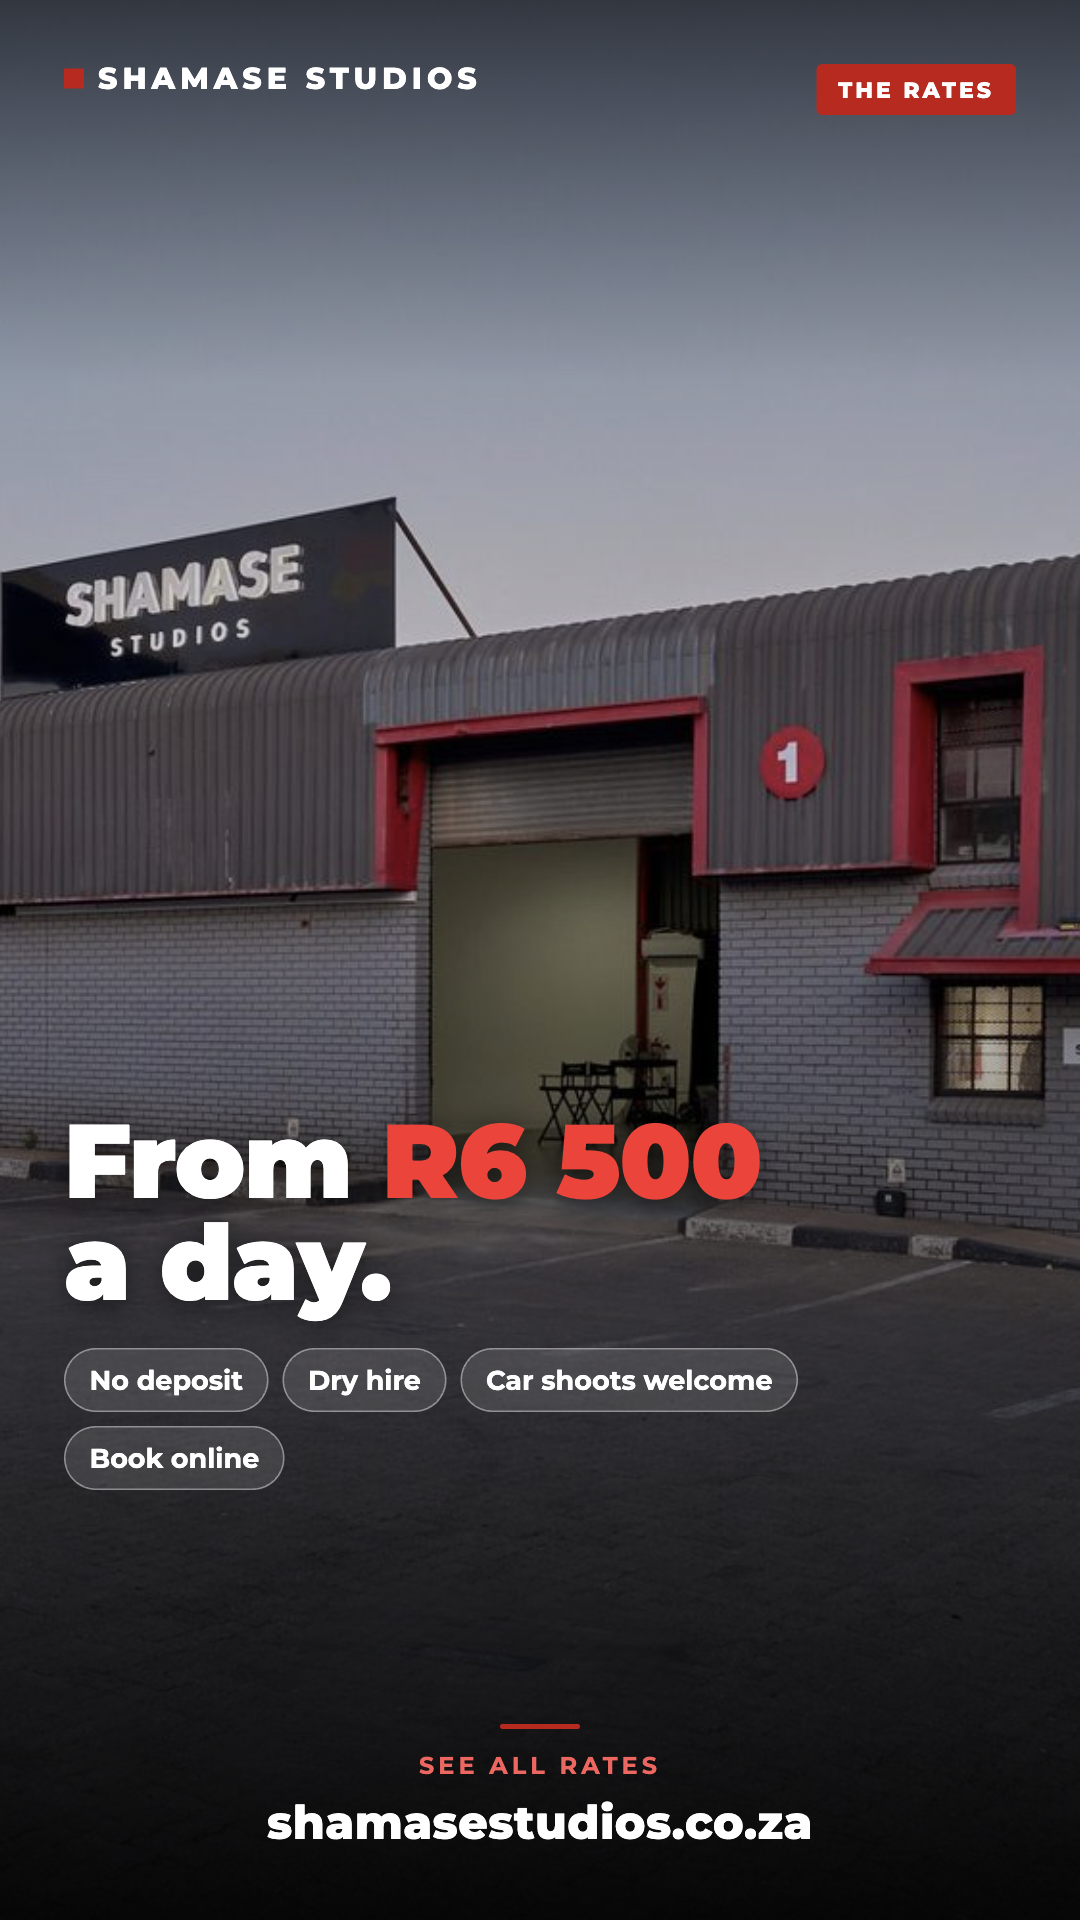
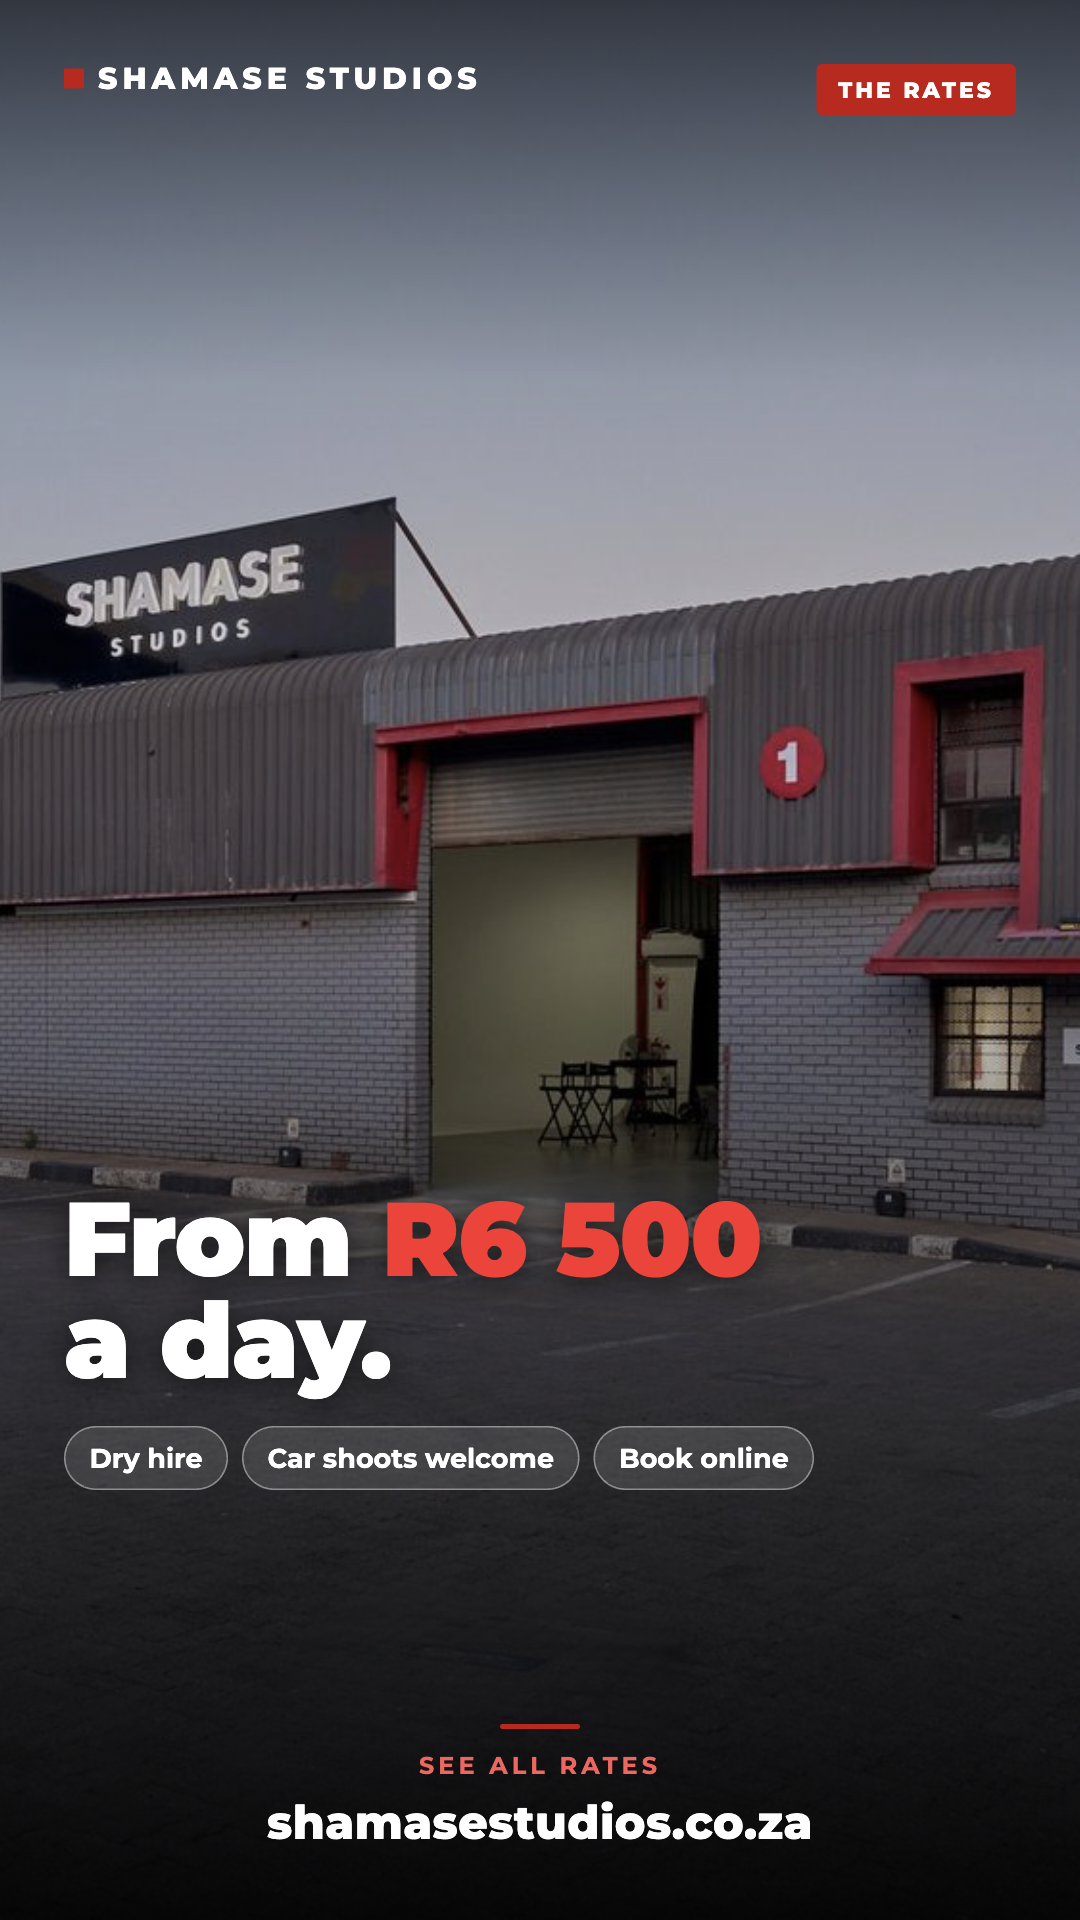
Remove 'no deposit' from spec sheet (web+PDF) and campaign rates post

Changed region(s): [[0.0611, 0.5625, 0.7639, 0.7812]]

diff --git a/docs/spec/index.html b/docs/spec/index.html
@@ -281,7 +281,7 @@ body{font-family:'Montserrat',Arial,sans-serif;color:#171717;}a{text-decoration:
 </div>
   <div class="h2"><span>Hire Rates</span><span class="tap">Tap any rate to book &#8594;</span></div>
   <a class="rrow" href="https://shamasestudios.as.me/?appointmentType=19960528"><span class="rn">Full Day <span class="d">10 hrs · Mon to Sat</span></span><span class="rp">R8 500 &#8594;</span></a><a class="rrow" href="https://shamasestudios.as.me/?appointmentType=19960466"><span class="rn">Half Day <span class="d">4 hrs · Mon to Fri</span></span><span class="rp">R6 500 &#8594;</span></a><a class="rrow" href="https://shamasestudios.as.me/?appointmentType=66979883"><span class="rn">Sunday & Public Holidays <span class="d">10 hrs</span></span><span class="rp">R9 500 &#8594;</span></a><a class="rrow" href="https://shamasestudios.as.me/?appointmentType=55580523"><span class="rn">Night <span class="d">7pm to 12am</span></span><span class="rp">R10 500 &#8594;</span></a><a class="rrow" href="https://shamasestudios.as.me/?appointmentType=84692663"><span class="rn">Car · Full Day <span class="d">10 hrs · Mon to Sat</span></span><span class="rp">R9 500 &#8594;</span></a><a class="rrow" href="https://shamasestudios.as.me/?appointmentType=85405226"><span class="rn">Car · Sunday & Public Holidays <span class="d">10 hrs</span></span><span class="rp">R10 500 &#8594;</span></a><a class="rrow" href="https://shamasestudios.as.me/?appointmentType=86076827"><span class="rn">Car · Night <span class="d">7pm to 12am</span></span><span class="rp">R12 000 &#8594;</span></a>
-  <div class="fine"><b>No deposit,</b> full payment secures your booking. Dry studio hire; <b>lighting &amp; stands available to hire</b> (extra). <b>Cyclorama painting / repaint</b> from R2 500. <b>Overtime R1 000 / hour.</b> Car shoots have no half-day rate. Full T&amp;Cs at <a href="https://www.shamasestudios.co.za/terms-conditions/">shamasestudios.co.za/terms-conditions</a>.</div>
+  <div class="fine"><b>Full payment</b> secures your booking. Dry studio hire; <b>lighting &amp; stands available to hire</b> (extra). <b>Cyclorama painting / repaint</b> from R2 500. <b>Overtime R1 000 / hour.</b> Car shoots have no half-day rate. Full T&amp;Cs at <a href="https://www.shamasestudios.co.za/terms-conditions/">shamasestudios.co.za/terms-conditions</a>.</div>
 </div>
 <div class="pg">
   <div class="hd"><div><div class="nm"><b>THE</b> STUDIO</div><div class="t">Gallery · <a class="map" href="https://maps.app.goo.gl/S111iTfdqdRaWpEN9?g_st=iw" style="color:#8a8a8a;border-bottom:1px dotted #c60d0d;">Strydom Park</a></div></div>
@@ -293,7 +293,7 @@ body{font-family:'Montserrat',Arial,sans-serif;color:#171717;}a{text-decoration:
 </div>
 <div class="pg">
   <div class="hd"><div><div class="nm"><b>STUDIO</b> FAQS</div><div class="t">Everything you need to know &#183; 1 of 3</div></div><div class="r">Strydom Park, Johannesburg<br><a href="mailto:[email redacted]">[email redacted]</a> &#183; <a href="https://wa.me/27652898164"><b>065 289 8164</b></a></div></div>
-  <div class="faqs2" style="margin-top:10px;"><div class="fcat">General</div><div class="fq"><div class="q">What can I shoot here?</div><div class="a">A 500 m² film & photo studio for stills, video, commercials, car shoots, interviews, podcasts, livestreams, YouTube, online courses and social content. Photo and video together is no problem.</div></div><div class="fq"><div class="q">Where are you located?</div><div class="a">Strydom Park, Johannesburg, 5 minutes from Boskruin & Malibongwe.</div></div><div class="fq"><div class="q">What are your operating hours?</div><div class="a">8am to 6pm. Anything before or after is charged as overtime (R1 000/hour).</div></div><div class="fq"><div class="q">Is there parking?</div><div class="a">Secure, gated on-site parking for 25+ vehicles (use at own risk).</div></div><div class="fq"><div class="q">Is the studio wheelchair accessible?</div><div class="a">Yes, it’s ground floor with a large roller-door entrance.</div></div><div class="fq"><div class="q">Can I view the studio before booking?</div><div class="a">Yes, a free recce, strongly recommended (and compulsory for sound/dialogue shoots). Book a viewing online.</div></div><div class="fcat">Booking & Payment</div><div class="fq"><div class="q">How do I book and secure my date?</div><div class="a">Book online. No 50% deposits, your date is held for 48 hours and full payment (EFT / bank transfer) must be received in that window or the booking is auto-cancelled. Bookings are confirmed by payment only; verbal or email approval doesn’t hold a date.</div></div><div class="fq"><div class="q">What is a pencil booking?</div><div class="a">A free, temporary 3-day hold while you finalise production details. It does not confirm your booking, does not block the public calendar, and there’s no P1/P2 system, several clients can pencil the same date and it’s secured only by the first to pay in full. A paid booking always takes precedence and releases pencils automatically.</div></div><div class="fq"><div class="q">Do your prices include VAT?</div><div class="a">We are not VAT-registered, so no VAT is added to our prices.</div></div><div class="fq"><div class="q">What are your weekend & public-holiday rates?</div><div class="a">Half-day hire isn’t available on weekends or public holidays, those bookings are charged at the full-day rate. Sunday & public-holiday rates are shown in the rates table (R9 500, or R10 500 for car shoots).</div></div><div class="fq"><div class="q">Do you offer multi-day discounts?</div><div class="a">For shoots longer than 4 days, rates can be discussed, get in touch.</div></div><div class="fcat">Rates & What’s Included</div><div class="fq"><div class="q">What does “dry hire” mean, what’s included?</div><div class="a">Dry hire means you hire the empty space and the white cyclorama, without equipment. Photo & video lighting, colour backdrops and grip aren’t included but can be hired (or bring your own). Standard cleaning is included.</div></div><div class="fq"><div class="q">Do you offer half-day or hourly bookings?</div><div class="a">A half-day (weekdays) is the smallest booking, there’s no hourly rate. Hourly pricing applies only to overtime at R1 000/hour.</div></div><div class="fq"><div class="q">What happens if we run overtime?</div><div class="a">Studio overtime is R1 000/hour. Standard hours are 8am to 6pm; before or after that counts as overtime.</div></div><div class="fcat">The Studio</div><div class="fq"><div class="q">What are the studio dimensions?</div><div class="a">500 m² total, with a 250 m² column-free shoot floor and a cyclorama of 12.5 × 10 m.</div></div><div class="fq"><div class="q">What is the ceiling height?</div><div class="a">6 m, and 6.5 m to the eaves.</div></div><div class="fq"><div class="q">Is there natural light? Can it be blacked out?</div><div class="a">It’s a warehouse studio, not a natural-light studio, but it can be fully blacked out.</div></div><div class="fq"><div class="q">Is there air conditioning?</div><div class="a">Yes, inverter aircon throughout.</div></div><div class="fq"><div class="q">Is Wi-Fi available?</div><div class="a">Yes, free uncapped Rain mobile Wi-Fi.</div></div><div class="fq"><div class="q">Is there backup power during load-shedding?</div><div class="a">Yes, 3-phase power with a silent backup generator, so your shoot is covered.</div></div><div class="fq"><div class="q">Is the studio soundproof? Can I shoot sound?</div><div class="a">It isn’t soundproof, we’re in a shared office park with a corrugated roof, so there’s some echo and ambient noise. You can shoot sound (many have), but a recce is strongly advised and compulsory for dialogue/sound. Rain is audible on the roof.</div></div><div class="fq"><div class="q">How many people can the studio hold?</div><div class="a">It’s built for 80+ crew.</div></div><div class="fq"><div class="q">Is there music?</div><div class="a">Yes, a large Stanmore Marshall speaker. Bring your playlist.</div></div></div>
+  <div class="faqs2" style="margin-top:10px;"><div class="fcat">General</div><div class="fq"><div class="q">What can I shoot here?</div><div class="a">A 500 m² film & photo studio for stills, video, commercials, car shoots, interviews, podcasts, livestreams, YouTube, online courses and social content. Photo and video together is no problem.</div></div><div class="fq"><div class="q">Where are you located?</div><div class="a">Strydom Park, Johannesburg, 5 minutes from Boskruin & Malibongwe.</div></div><div class="fq"><div class="q">What are your operating hours?</div><div class="a">8am to 6pm. Anything before or after is charged as overtime (R1 000/hour).</div></div><div class="fq"><div class="q">Is there parking?</div><div class="a">Secure, gated on-site parking for 25+ vehicles (use at own risk).</div></div><div class="fq"><div class="q">Is the studio wheelchair accessible?</div><div class="a">Yes, it’s ground floor with a large roller-door entrance.</div></div><div class="fq"><div class="q">Can I view the studio before booking?</div><div class="a">Yes, a free recce, strongly recommended (and compulsory for sound/dialogue shoots). Book a viewing online.</div></div><div class="fcat">Booking & Payment</div><div class="fq"><div class="q">How do I book and secure my date?</div><div class="a">Book online. Your date is held for 48 hours, and full payment (EFT / bank transfer) must be received in that window or the booking is auto-cancelled. Bookings are confirmed by payment only; verbal or email approval doesn’t hold a date.</div></div><div class="fq"><div class="q">What is a pencil booking?</div><div class="a">A free, temporary 3-day hold while you finalise production details. It does not confirm your booking, does not block the public calendar, and there’s no P1/P2 system, several clients can pencil the same date and it’s secured only by the first to pay in full. A paid booking always takes precedence and releases pencils automatically.</div></div><div class="fq"><div class="q">Do your prices include VAT?</div><div class="a">We are not VAT-registered, so no VAT is added to our prices.</div></div><div class="fq"><div class="q">What are your weekend & public-holiday rates?</div><div class="a">Half-day hire isn’t available on weekends or public holidays, those bookings are charged at the full-day rate. Sunday & public-holiday rates are shown in the rates table (R9 500, or R10 500 for car shoots).</div></div><div class="fq"><div class="q">Do you offer multi-day discounts?</div><div class="a">For shoots longer than 4 days, rates can be discussed, get in touch.</div></div><div class="fcat">Rates & What’s Included</div><div class="fq"><div class="q">What does “dry hire” mean, what’s included?</div><div class="a">Dry hire means you hire the empty space and the white cyclorama, without equipment. Photo & video lighting, colour backdrops and grip aren’t included but can be hired (or bring your own). Standard cleaning is included.</div></div><div class="fq"><div class="q">Do you offer half-day or hourly bookings?</div><div class="a">A half-day (weekdays) is the smallest booking, there’s no hourly rate. Hourly pricing applies only to overtime at R1 000/hour.</div></div><div class="fq"><div class="q">What happens if we run overtime?</div><div class="a">Studio overtime is R1 000/hour. Standard hours are 8am to 6pm; before or after that counts as overtime.</div></div><div class="fcat">The Studio</div><div class="fq"><div class="q">What are the studio dimensions?</div><div class="a">500 m² total, with a 250 m² column-free shoot floor and a cyclorama of 12.5 × 10 m.</div></div><div class="fq"><div class="q">What is the ceiling height?</div><div class="a">6 m, and 6.5 m to the eaves.</div></div><div class="fq"><div class="q">Is there natural light? Can it be blacked out?</div><div class="a">It’s a warehouse studio, not a natural-light studio, but it can be fully blacked out.</div></div><div class="fq"><div class="q">Is there air conditioning?</div><div class="a">Yes, inverter aircon throughout.</div></div><div class="fq"><div class="q">Is Wi-Fi available?</div><div class="a">Yes, free uncapped Rain mobile Wi-Fi.</div></div><div class="fq"><div class="q">Is there backup power during load-shedding?</div><div class="a">Yes, 3-phase power with a silent backup generator, so your shoot is covered.</div></div><div class="fq"><div class="q">Is the studio soundproof? Can I shoot sound?</div><div class="a">It isn’t soundproof, we’re in a shared office park with a corrugated roof, so there’s some echo and ambient noise. You can shoot sound (many have), but a recce is strongly advised and compulsory for dialogue/sound. Rain is audible on the roof.</div></div><div class="fq"><div class="q">How many people can the studio hold?</div><div class="a">It’s built for 80+ crew.</div></div><div class="fq"><div class="q">Is there music?</div><div class="a">Yes, a large Stanmore Marshall speaker. Bring your playlist.</div></div></div>
 </div>
 <div class="pg">
   <div class="hd"><div><div class="nm"><b>STUDIO</b> FAQS</div><div class="t">Everything you need to know &#183; 2 of 3</div></div><div class="r">Strydom Park, Johannesburg<br><a href="mailto:[email redacted]">[email redacted]</a> &#183; <a href="https://wa.me/27652898164"><b>065 289 8164</b></a></div></div>